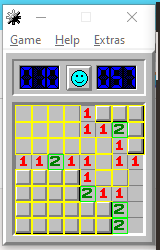
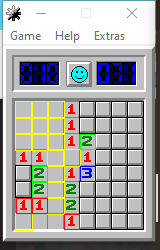
better cell recognition

diff --git a/main.py b/main.py
@@ -4,65 +4,84 @@ import time
 import cv2
 import pyautogui
 
-now = time.time()
+base = 'img/'
 
-while(True):
-    prtscr = np.array(ImageGrab.grab(bbox=(0,0,160,250), ))
-    threshold = .9
+cells = {
+    1: {
+        'first': '1.png',
+        'second': (0, 0, 255),
+    },
+    2: {
+        'first': '2.png',
+        'second': (0, 255, 0),
+    },
+    3: {
+        'first': '3.png',
+        'second': (255, 0, 0),
+    },
+    4: {
+        'first': 'cell.png',
+        'second': (0, 0, 0),
+    },
+    5: {
+        'first': 'empty_down.png',
+        'second': (255, 255, 255),
+    },
+    6: {
+        'first': 'empty.png',
+        'second': (255, 255, 255),
+    },
+    7: {
+        'first': 'empty_right.png',
+        'second': (255, 255, 255),
+    },
+    8: {
+        'first': 'empty_corner.png',
+        'second': (255, 255, 255),
+    },
+    9: {
+        'first': 'happy.png',
+        'second': (0, 255, 255),
+    },
+    10: {
+        'first': 'sad.png',
+        'second': (255, 0, 255),
+    },
+}
 
-    cell_template = cv2.imread('img/cell.png')
-    cell_w, cell_h = cell_template.shape[:-1]
-    cell_res = cv2.matchTemplate(prtscr, cell_template, cv2.TM_CCOEFF_NORMED)
-    cell_loc = np.where(cell_res >= threshold)
-    for pt in zip(*cell_loc[::-1]):  # Switch collumns and rows
-        cv2.rectangle(prtscr, pt, (pt[0] + cell_w, pt[1] + cell_h), (0, 0, 0), 1)
+def take_screen_shot():
+    # 800x600 windowed mode
+    screen = np.array(ImageGrab.grab(bbox=(0,0,150,250)))
+    return screen
 
-    empty_template = cv2.imread('img/empty.png')
-    empty_w, empty_h = empty_template.shape[:-1]
-    empty_res = cv2.matchTemplate(prtscr, empty_template, cv2.TM_CCOEFF_NORMED)
-    empty_loc = np.where(empty_res >= threshold)
-    for pt in zip(*empty_loc[::-1]):  # Switch collumns and rows
-        cv2.rectangle(prtscr, pt, (pt[0] + empty_w, pt[1] + empty_h), (0, 255, 255), 1)
+def process_img(original_image):
+    processed_img = cv2.cvtColor(original_image, cv2.COLOR_BGR2RGB)
+    for number in cells.values():
+        template = cv2.imread(base + number['first'])
+        w, h = template.shape[:-1]
+        res = cv2.matchTemplate(processed_img,template,cv2.TM_CCOEFF_NORMED)
+        threshold = 0.9
+        loc = np.where( res >= threshold)
+        for pt in zip(*loc[::-1]):
+            xOffset, yOffset = 0, 0
+            if(number['first'] == 'cell.png' or number['first'] == 'empty.png' or number['first'] == 'empty_corner.png' or number['first'] == 'empty_down.png' or number['first'] == 'empty_right.png'):
+                xOffset, yOffset = 1, 1
+            cv2.rectangle(processed_img, (pt[0] + xOffset, pt[1] + yOffset), (pt[0] + w - xOffset - 1, pt[1] + h - yOffset - 1), number['second'])
     
-    empty_down_template = cv2.imread('img/empty_down.png')
-    empty_down_w, empty_down_h = empty_down_template.shape[:-1]
-    empty_down_res = cv2.matchTemplate(prtscr, empty_down_template, cv2.TM_CCOEFF_NORMED)
-    empty_down_loc = np.where(empty_down_res >= threshold)
-    for pt in zip(*empty_down_loc[::-1]):  # Switch collumns and rows
-        cv2.rectangle(prtscr, pt, (pt[0] + empty_down_w, pt[1] + empty_down_h), (0, 255, 255), 1)
+    return processed_img
 
-    one_template = cv2.imread('img/1.png')
-    one_template = cv2.cvtColor(one_template, cv2.COLOR_BGR2RGB)
-    one_w, one_h = one_template.shape[:-1]
-    one_res = cv2.matchTemplate(prtscr, one_template, cv2.TM_CCOEFF_NORMED)
-    one_loc = np.where(one_res >= threshold)
-    for pt in zip(*one_loc[::-1]):  # Switch collumns and rows
-        cv2.rectangle(prtscr, pt, (pt[0] + one_w, pt[1] + one_h), (0, 0, 255), 3)
+def main():
+    last_time = time.time()
+    while(True):
+        screen = take_screen_shot()
+        new_screen = process_img(screen)
+        # print('Loop took {} seconds'.format(time.time()-last_time))
+        last_time = time.time()
+        cv2.imshow('window', new_screen)
+        if cv2.waitKey(25) & 0xFF == ord('q'):
+            cv2.destroyAllWindows()
+            break
 
-    two_template = cv2.imread('img/2.png')
-    two_template = cv2.cvtColor(two_template, cv2.COLOR_BGR2RGB)
-    two_w, two_h = two_template.shape[:-1]
-    two_res = cv2.matchTemplate(prtscr, two_template, cv2.TM_CCOEFF_NORMED)
-    two_loc = np.where(two_res >= threshold)
-    for pt in zip(*two_loc[::-1]):  # Switch collumns and rows
-        cv2.rectangle(prtscr, pt, (pt[0] + two_w, pt[1] + two_h), (0, 255, 0), 1)
+if __name__ == '__main__':
+    main()
 
-    three_template = cv2.imread('img/3.png')
-    three_template = cv2.cvtColor(three_template, cv2.COLOR_BGR2RGB)
-    three_w, three_h = three_template.shape[:-1]
-    three_res = cv2.matchTemplate(prtscr, three_template, cv2.TM_CCOEFF_NORMED)
-    three_loc = np.where(three_res >= threshold)
-    for pt in zip(*three_loc[::-1]):  # Switch collumns and rows
-        cv2.rectangle(prtscr, pt, (pt[0] + three_w, pt[1] + three_h), (255, 0, 0), 1)
-
-    cv2.imwrite('result.png', prtscr)
-
-
-    # print('Loop took {} seconds'.format(time.time()-now))
-    now = time.time()
-    cv2.imshow('window',cv2.cvtColor(prtscr, cv2.COLOR_BGR2RGB))
-    # cv2.imshow('window',prtscr)
-
-    if cv2.waitKey(25) & 0xFF == ord('q'):
-        cv2.destroyAllWindows()
-        break
